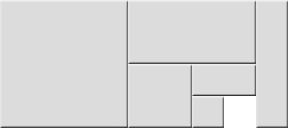
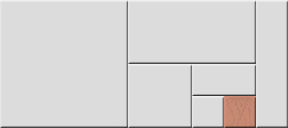
Nerfed boss

Changed region(s): [[0.75, 0.75, 0.9062, 1.0]]

diff --git a/app/js/app.js b/app/js/app.js
@@ -1276,6 +1276,14 @@
             height: 128
           }
         ],
+        'brokenCube': [
+          {
+            x: 224,
+            y: 96,
+            width: 32,
+            height: 32
+          }
+        ],
         'iceExplosion': [
           {
             x: 0,
@@ -3045,8 +3053,6 @@
     PoingMan.prototype.start = function() {
       var self;
       self = this;
-      this.parts.push(new PoingManPart(128 - 128, this.levelHeight - 64));
-      this.parts.push(new PoingManPart(512 + 128, this.levelHeight - 64));
       return bossManager.update = function(frameTime) {
         if (self.attacking && !self.finishing && !self.starting && !self.waiting) {
           return self.attack(frameTime);
@@ -3087,7 +3093,7 @@
     };
 
     PoingMan.prototype.attack = function(frameTime) {
-      var collision, collisions, ground, tmp, _i, _len;
+      var collision, collisions, cube, ground, i, tmp, _i, _j, _len, _ref;
       ground = this.levelHeight - 62;
       if (this.shape.getY() < ground && !this.comeBack) {
         tmp = this.shape.getY() + this.attackSpeed * frameTime;
@@ -3119,6 +3125,16 @@
           collisions = cubeManager.getCollisions(this.shape);
           for (_i = 0, _len = collisions.length; _i < _len; _i++) {
             collision = collisions[_i];
+            if (collision.getName() === void 0 || collision.getName().broken !== true) {
+              for (i = _j = 0, _ref = (collision.getWidth() / 32) - 1; 0 <= _ref ? _j <= _ref : _j >= _ref; i = 0 <= _ref ? ++_j : --_j) {
+                cube = new Cube(collision.getX() + i * 32, collision.getY(), SquareEnum.SMALL, 'cubes', 'brokenCube');
+                cube.shape.setName({
+                  type: 'cube',
+                  broken: true
+                });
+                staticCubes.add(cube.shape);
+              }
+            }
             collision.destroy();
           }
           return staticCubes.draw();
@@ -3127,19 +3143,6 @@
     };
 
     PoingMan.prototype.startingPhase = function(frameTime) {
-      var tmp;
-      tmp = this.parts[0].shape.getX() + this.speed * frameTime;
-      if (tmp > 128) {
-        this.parts[0].shape.setX(128);
-      } else {
-        this.parts[0].shape.setX(tmp);
-      }
-      tmp = this.parts[1].shape.getX() - this.speed * frameTime;
-      if (tmp < 512) {
-        this.parts[1].shape.setX(512);
-      } else {
-        this.parts[1].shape.setX(tmp);
-      }
       this.shape.setX(this.shape.getX() - this.speed * frameTime);
       if (this.shape.getX() < 64) {
         return this.starting = false;
@@ -3147,8 +3150,6 @@
     };
 
     PoingMan.prototype.finishingPhase = function(frameTime) {
-      this.parts[0].shape.setX(this.parts[0].shape.getX() - this.speed * frameTime);
-      this.parts[1].shape.setX(this.parts[1].shape.getX() + this.speed * frameTime);
       this.shape.setX(this.shape.getX() + this.speed * frameTime);
       if (this.shape.getX() > 800) {
         return this.finish();
@@ -3174,7 +3175,7 @@
 
     return PoingMan;
 
-  })(MultiPartBoss);
+  })(Boss);
 
   PoingManPart = (function(_super) {
     __extends(PoingManPart, _super);
@@ -3457,7 +3458,10 @@
         hud.update(frameTime);
         return cubeManager.update(frameTime);
       };
-      return game.start();
+      game.start();
+      if (config.debug) {
+        return bossManager.spawn(3, [[0.4, 0.6, 500], [0, 0, 2, 4, 6, 8, 10]]);
+      }
     };
     return document.querySelector('#play').onclick = function() {
       document.querySelector('#login').style.display = 'none';
